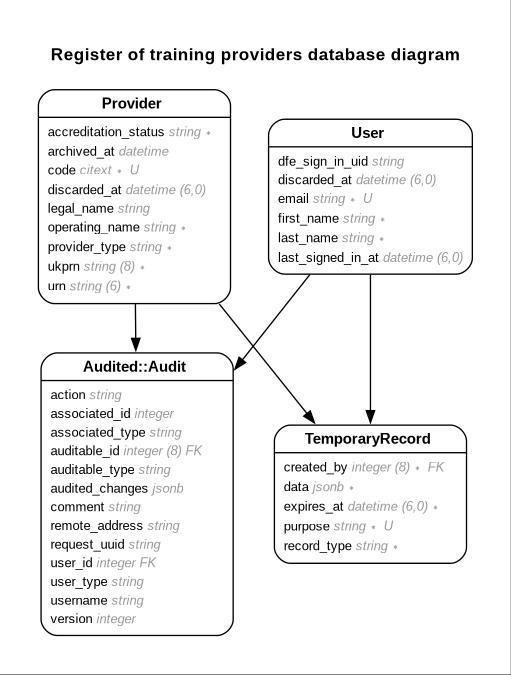
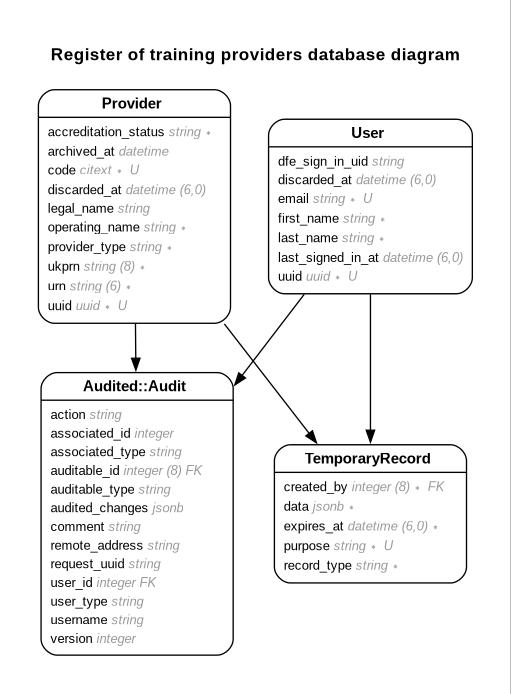
[0168] Added uuid to important models

diff --git a/db/schema.rb b/db/schema.rb
@@ -10,9 +10,10 @@
 #
 # It's strongly recommended that you check this file into your version control system.
 
-ActiveRecord::Schema[8.0].define(version: 2025_08_01_180705) do
+ActiveRecord::Schema[8.0].define(version: 2025_08_04_092306) do
   # These are extensions that must be enabled in order to support this database
   enable_extension "citext"
+  enable_extension "pgcrypto"
 
   create_table "audits", force: :cascade do |t|
     t.bigint "auditable_id"
@@ -48,6 +49,7 @@ ActiveRecord::Schema[8.0].define(version: 2025_08_01_180705) do
     t.datetime "archived_at", precision: nil
     t.datetime "created_at", null: false
     t.datetime "updated_at", null: false
+    t.uuid "uuid", default: -> { "gen_random_uuid()" }, null: false
     t.index ["accreditation_status"], name: "index_providers_on_accreditation_status"
     t.index ["archived_at"], name: "index_providers_on_archived_at"
     t.index ["code"], name: "index_providers_on_code", unique: true
@@ -56,6 +58,7 @@ ActiveRecord::Schema[8.0].define(version: 2025_08_01_180705) do
     t.index ["provider_type"], name: "index_providers_on_provider_type"
     t.index ["ukprn"], name: "index_providers_on_ukprn"
     t.index ["urn"], name: "index_providers_on_urn"
+    t.index ["uuid"], name: "index_providers_on_uuid", unique: true
   end
 
   create_table "solid_queue_blocked_executions", force: :cascade do |t|
@@ -200,8 +203,10 @@ ActiveRecord::Schema[8.0].define(version: 2025_08_01_180705) do
     t.datetime "discarded_at"
     t.datetime "created_at", null: false
     t.datetime "updated_at", null: false
+    t.uuid "uuid", default: -> { "gen_random_uuid()" }, null: false
     t.index ["discarded_at"], name: "index_users_on_discarded_at"
     t.index ["email"], name: "index_users_on_email", unique: true
+    t.index ["uuid"], name: "index_users_on_uuid", unique: true
   end
 
   add_foreign_key "solid_queue_blocked_executions", "solid_queue_jobs", column: "job_id", on_delete: :cascade

diff --git a/app/models/provider.rb b/app/models/provider.rb
@@ -5,13 +5,14 @@
 #  id                   :bigint           not null, primary key
 #  accreditation_status :string           not null
 #  archived_at          :datetime
-#  code                 :string(3)        not null
+#  code                 :citext           not null
 #  discarded_at         :datetime
 #  legal_name           :string
 #  operating_name       :string           not null
 #  provider_type        :string           not null
 #  ukprn                :string(8)        not null
 #  urn                  :string(6)
+#  uuid                 :uuid             not null
 #  created_at           :datetime         not null
 #  updated_at           :datetime         not null
 #
@@ -25,6 +26,7 @@
 #  index_providers_on_provider_type         (provider_type)
 #  index_providers_on_ukprn                 (ukprn)
 #  index_providers_on_urn                   (urn)
+#  index_providers_on_uuid                  (uuid) UNIQUE
 #
 class Provider < ApplicationRecord
   include Discard::Model

diff --git a/app/models/user.rb b/app/models/user.rb
@@ -9,6 +9,7 @@
 #  first_name        :string           not null
 #  last_name         :string           not null
 #  last_signed_in_at :datetime
+#  uuid              :uuid             not null
 #  created_at        :datetime         not null
 #  updated_at        :datetime         not null
 #
@@ -16,6 +17,7 @@
 #
 #  index_users_on_discarded_at  (discarded_at)
 #  index_users_on_email         (email) UNIQUE
+#  index_users_on_uuid          (uuid) UNIQUE
 #
 
 class User < ApplicationRecord

diff --git a/app/models/persona.rb b/app/models/persona.rb
@@ -9,6 +9,7 @@
 #  first_name        :string           not null
 #  last_name         :string           not null
 #  last_signed_in_at :datetime
+#  uuid              :uuid             not null
 #  created_at        :datetime         not null
 #  updated_at        :datetime         not null
 #
@@ -16,6 +17,7 @@
 #
 #  index_users_on_discarded_at  (discarded_at)
 #  index_users_on_email         (email) UNIQUE
+#  index_users_on_uuid          (uuid) UNIQUE
 #
 
 class Persona < User

diff --git a/db/migrate/20250804092140_add_uuid_to_providers.rb b/db/migrate/20250804092140_add_uuid_to_providers.rb
@@ -1,0 +1,6 @@
+class AddUuidToProviders < ActiveRecord::Migration[8.0]
+  def change
+    add_column :providers, :uuid, :uuid, default: "gen_random_uuid()", null: false
+    add_index :providers, :uuid, unique: true
+  end
+end

diff --git a/db/migrate/20250804092306_add_uuid_to_users.rb b/db/migrate/20250804092306_add_uuid_to_users.rb
@@ -1,0 +1,6 @@
+class AddUuidToUsers < ActiveRecord::Migration[8.0]
+  def change
+    add_column :users, :uuid, :uuid, default: "gen_random_uuid()", null: false
+    add_index :users, :uuid, unique: true
+  end
+end

diff --git a/db/migrate/20250804092031_enable_pgcrypto.rb b/db/migrate/20250804092031_enable_pgcrypto.rb
@@ -1,0 +1,5 @@
+class EnablePgcrypto < ActiveRecord::Migration[8.0]
+  def change
+    enable_extension "pgcrypto"
+  end
+end
